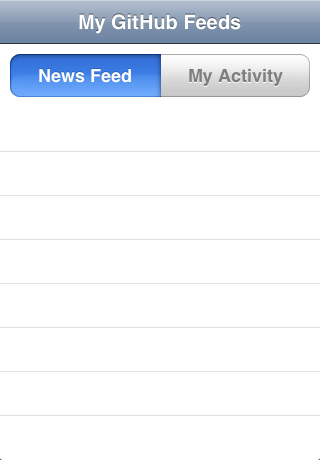
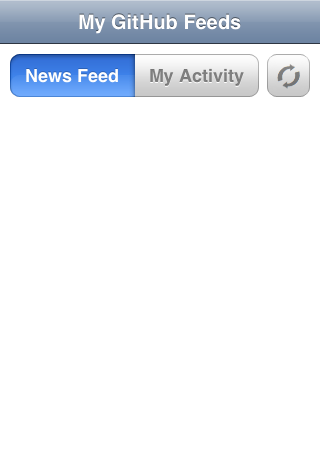
Added reload button for feeds

Changed region(s): [[0.0625, 0.0913, 0.9375, 0.213]]

diff --git a/Classes/FeedViewController.m b/Classes/FeedViewController.m
@@ -55,11 +55,16 @@
 	[self startParsingFeed];
 }
 
+- (IBAction)reloadFeed:(id)sender {
+	[self.currentFeed unloadFeed];
+	[self startParsingFeed];
+}
+
 - (void)startParsingFeed {
 	[activityView startAnimating];
 	[UIApplication sharedApplication].networkActivityIndicatorVisible = YES;
 	[self.currentFeed addObserver:self forKeyPath:@"isLoaded" options:NSKeyValueObservingOptionNew context:nil];
-	[self.currentFeed performSelectorInBackground:@selector(parseFeed) withObject:nil];
+	[self.currentFeed performSelectorInBackground:@selector(loadFeed) withObject:nil];
 }
 
 - (void)observeValueForKeyPath:(NSString *)keyPath ofObject:object change:change context:context {

diff --git a/Classes/GHFeed.m b/Classes/GHFeed.m
@@ -22,7 +22,7 @@
 #pragma mark -
 #pragma mark Feed parsing
 
-- (void)parseFeed {
+- (void)loadFeed {
 	NSAutoreleasePool *pool = [[NSAutoreleasePool alloc] init];
 	NSXMLParser *parser = [[NSXMLParser alloc] initWithContentsOfURL:url];
 	[parser setDelegate:self];
@@ -32,6 +32,11 @@
 	[parser parse];
 	[parser release];
 	[pool release];
+}
+
+- (void)unloadFeed {
+	self.entries = [NSMutableArray array];
+	self.isLoaded = NO;
 }
 
 - (void)finishedParsing {

diff --git a/Classes/GHFeed.h b/Classes/GHFeed.h
@@ -4,12 +4,13 @@
 @class GHFeedEntry;
 
 @interface GHFeed : NSObject {
+	BOOL isLoaded;
+  @private
 	NSURL *url;
 	NSMutableArray *entries;
 	NSMutableString *currentElementValue;
 	NSDateFormatter *dateFormatter;
 	GHFeedEntry *currentEntry;
-	BOOL isLoaded;
 }
 
 @property (nonatomic, retain) NSURL *url;
@@ -17,5 +18,7 @@
 @property (nonatomic, readwrite) BOOL isLoaded;
 
 - (id)initWithURL:(NSURL *)theURL;
+- (void)loadFeed;
+- (void)unloadFeed;
 
 @end

diff --git a/Classes/FeedViewController.h b/Classes/FeedViewController.h
@@ -14,5 +14,6 @@
 @property (nonatomic, readonly) GHFeed *currentFeed;
 
 - (IBAction)switchChanged:(id)sender;
+- (IBAction)reloadFeed:(id)sender;
 
 @end

diff --git a/Classes/GHFeedEntryCell.m b/Classes/GHFeedEntryCell.m
@@ -32,5 +32,4 @@
     [super dealloc];
 }
 
-
 @end
